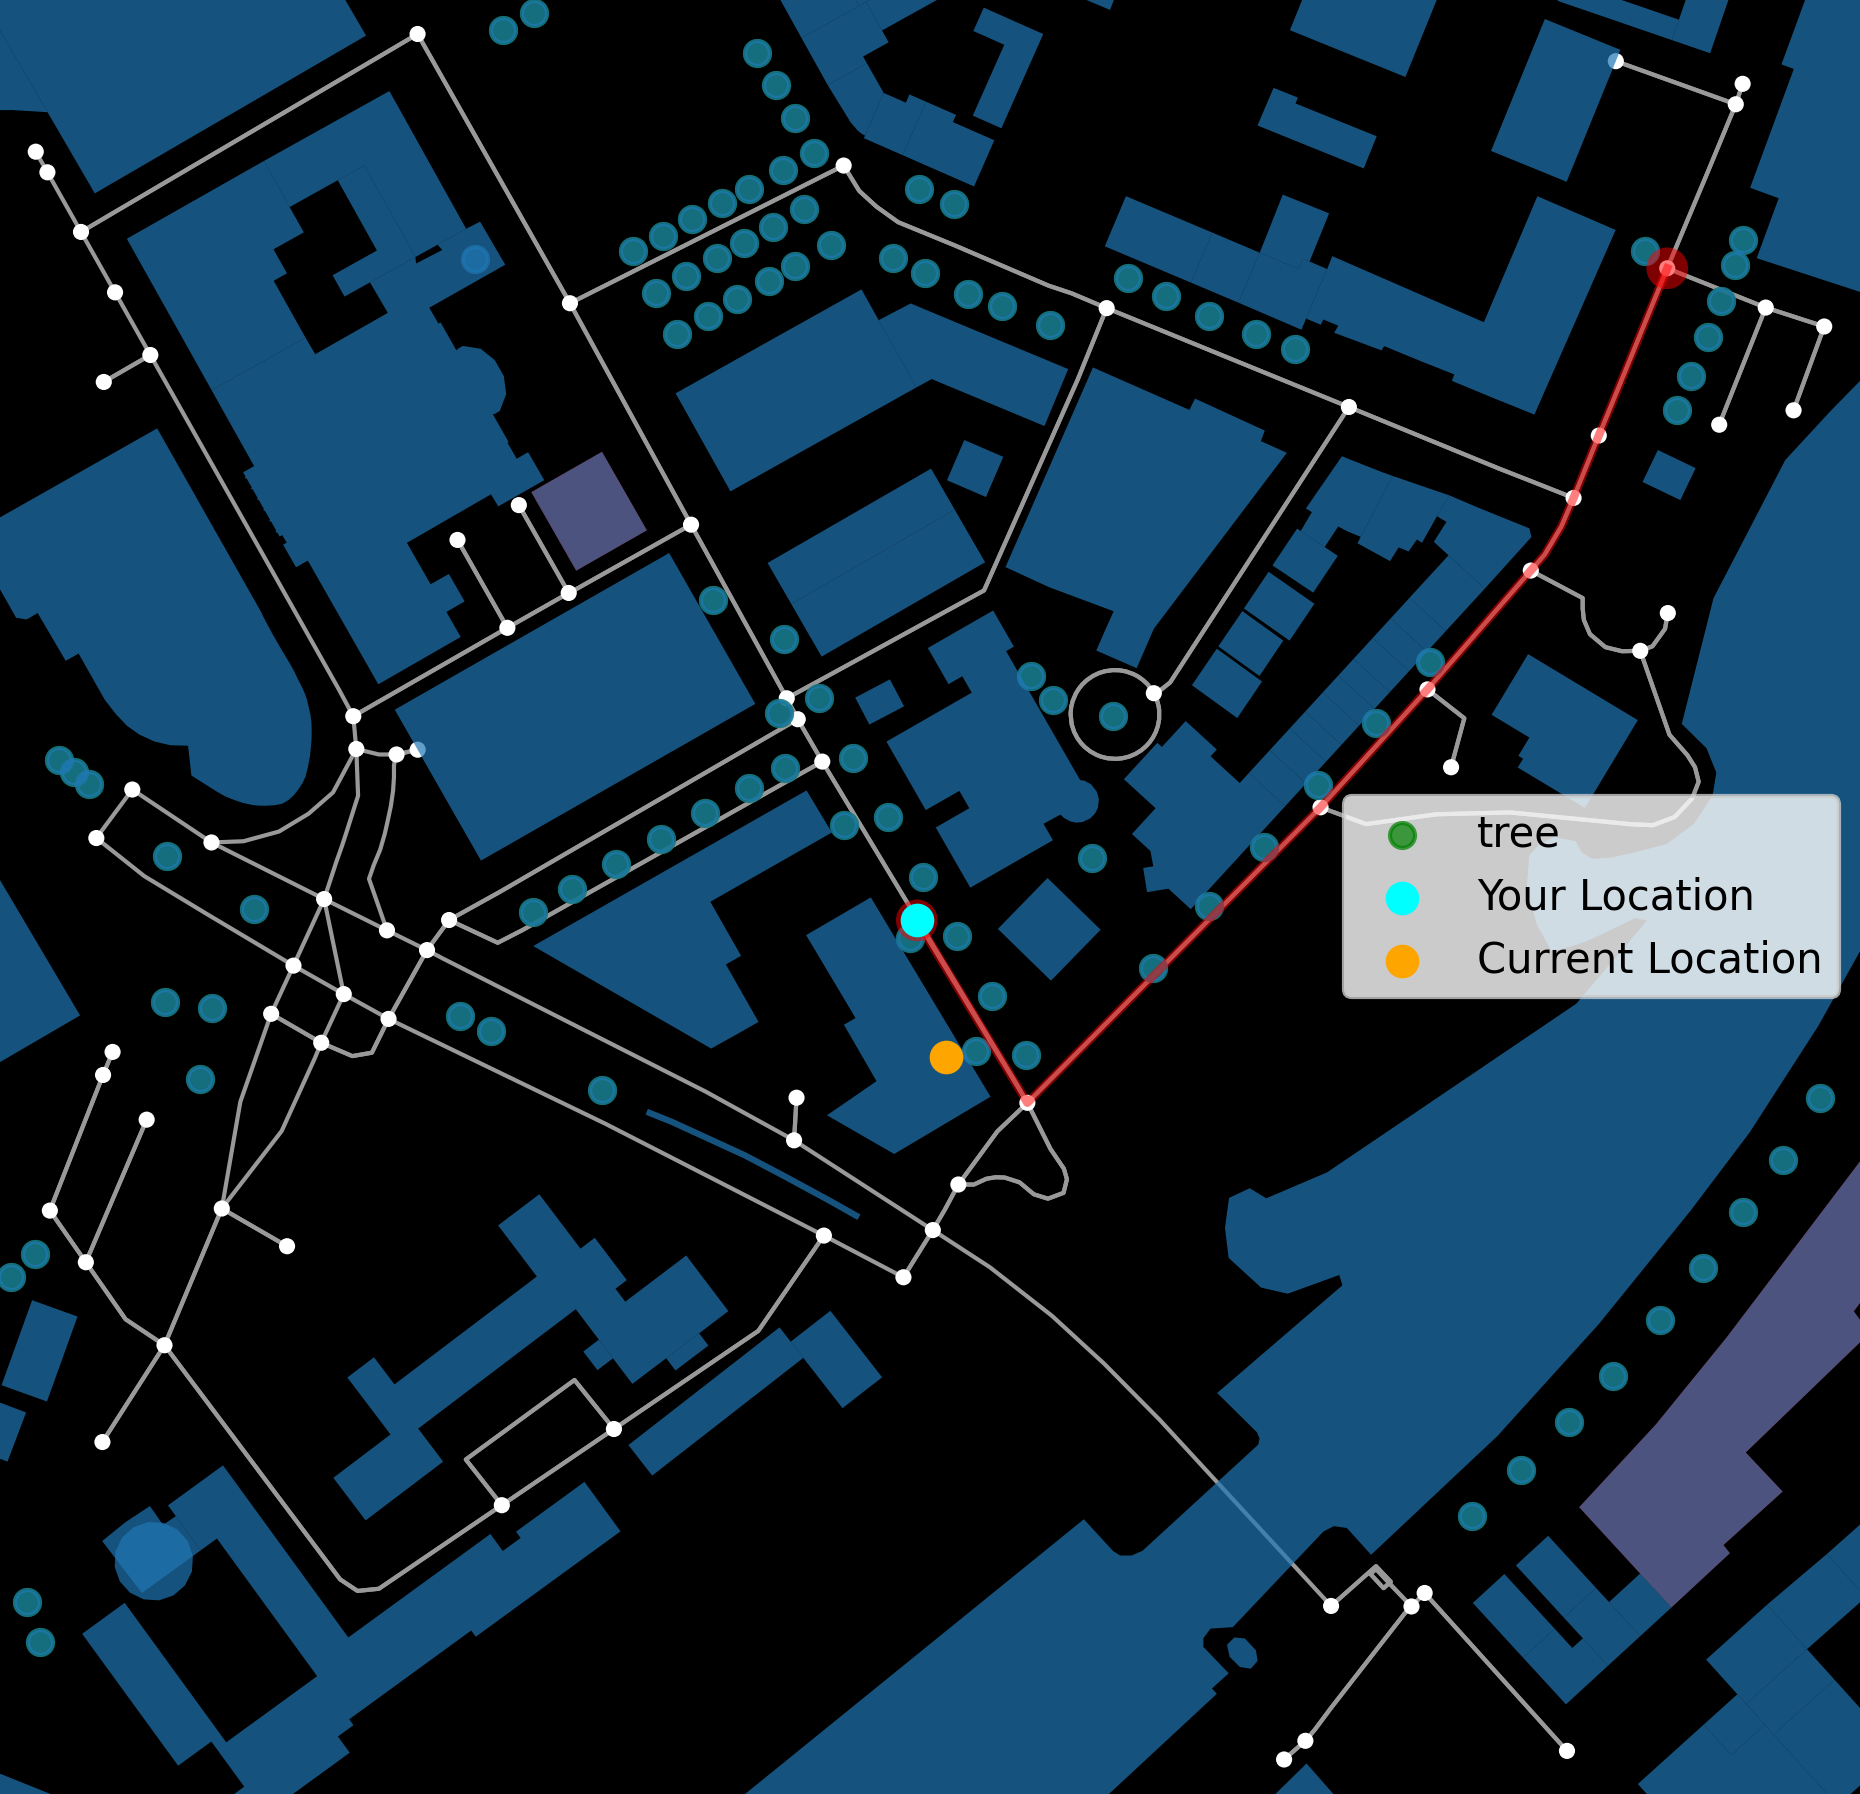
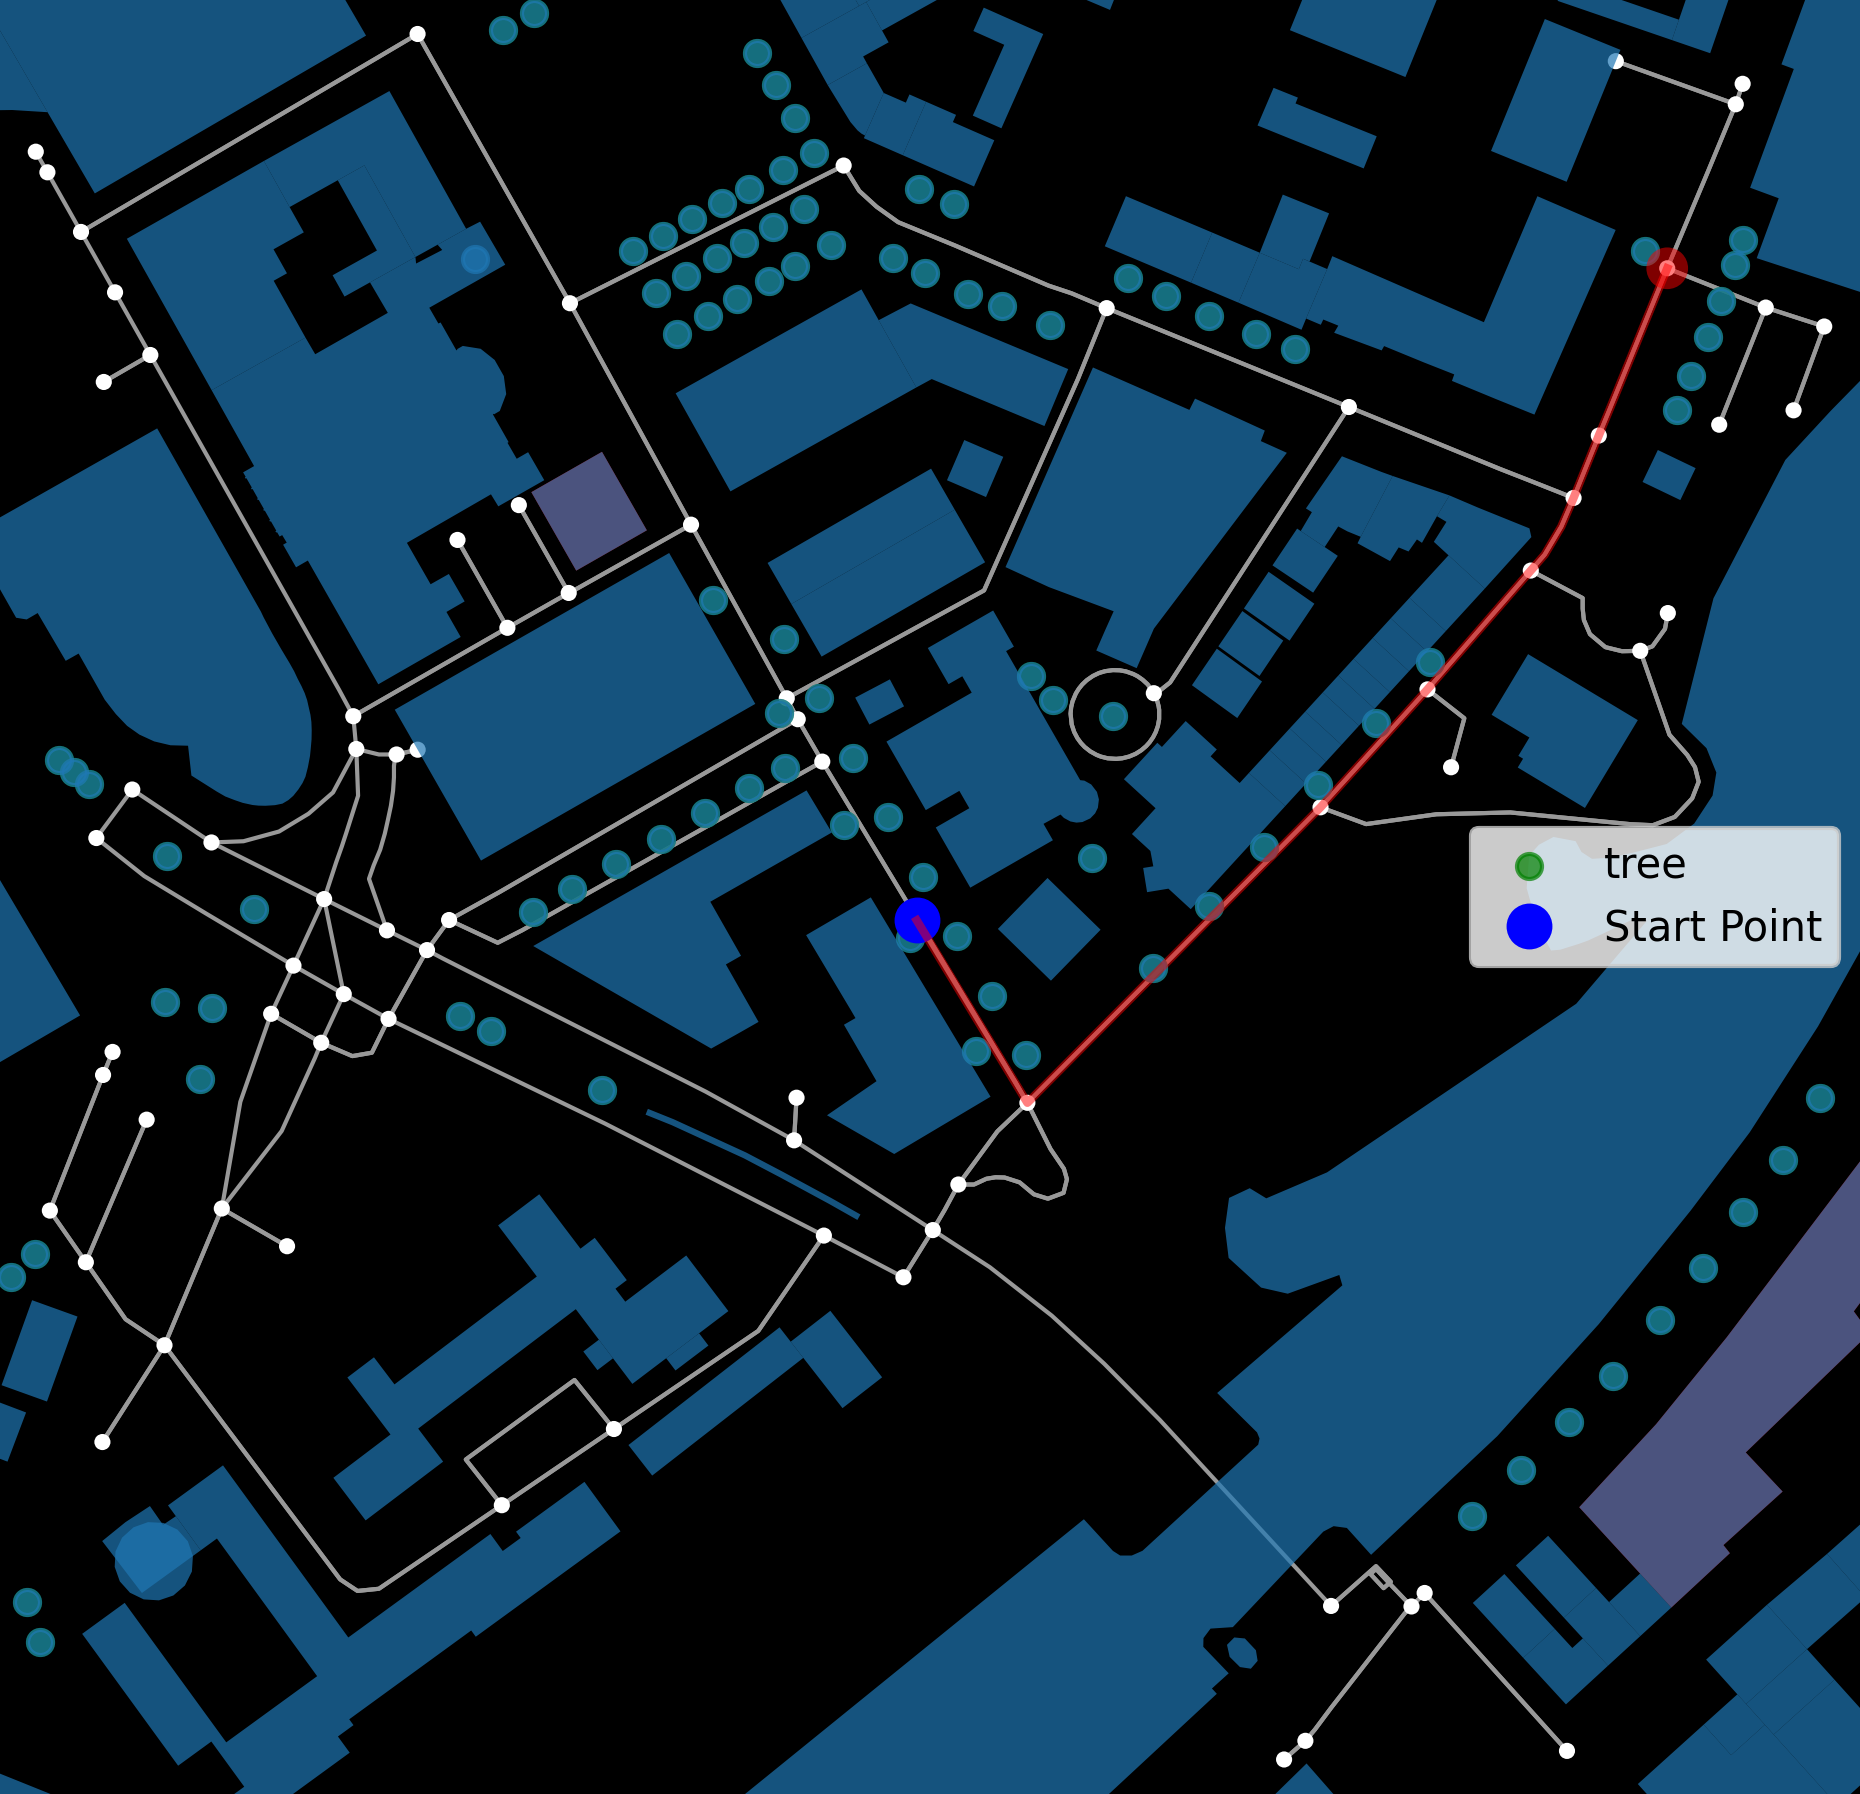
gif plot

Changed region(s): [[0.7172, 0.437, 0.9978, 0.5619], [0.4677, 0.4994, 0.5301, 0.5307], [0.4989, 0.5619, 0.5301, 0.5931]]

diff --git a/Layers/L1_App/navigation/create_map_network.py b/Layers/L1_App/navigation/create_map_network.py
@@ -4,13 +4,14 @@ from numpy import save, short
 import osmnx as ox
 import networkx as nx
 import os, sys, argparse
-import json
+import json, matplotlib
 import matplotlib.pyplot as plt
+matplotlib.use('Qt5Agg')
 from scipy.__config__ import show
 from matplotlib.patches import Patch
-from sklearn import tree
-import geopandas as gpd
-from shapely.geometry import Point, LineString
+from matplotlib.animation import FuncAnimation
+from matplotlib.path import Path
+from IPython.display import HTML
 
 class MapHandler():
     def __init__(self, type, destination, place_name=None, coordinates=[]) -> None:
@@ -27,6 +28,7 @@ class MapHandler():
         """
         self._network_type = type
         self._destination = destination
+        self._animation = None
         self.nodes = 0
         self.coordinates = []
         self.initial_location = coordinates
@@ -220,7 +222,7 @@ class MapHandler():
             self.coordinates.append(g.nodes[node_id[x]]['x'])
         return self.coordinates
     
-    def plot_graph_shortest_route(self, current_position):
+    def plot_graph_shortest_route(self):
         
         """
 
@@ -244,27 +246,45 @@ class MapHandler():
         
         # Highlight your location node
         your_location_node = self._graph.nodes[69]
-        ax.scatter(your_location_node["x"], your_location_node["y"], c="cyan", s=50, zorder=5, label="Your Location")
-        ax.scatter(y=current_position[0], x=current_position[1], c="orange", s=50, zorder=5, label="Current Location")
+        start_point, = ax.plot(your_location_node['x'], your_location_node['y'], 'bo', markersize=10, label='Start Point')
+        #ax.scatter(your_location_node["x"], your_location_node["y"], c="cyan", s=50, zorder=5, label="Your Location")
+        #ax.scatter(y=current_position[0], x=current_position[1], c="orange", s=50, zorder=5, label="Current Location")
         ax.legend()
         #ox.plot_graph_route(self._graph, self.find_shortest_path_between_two_points(), route_color='r', route_linewidth=2, ax=ax, save=True,filepath=f'{os.path.abspath(os.path.join(os.path.dirname(__file__),"../../"))}/L2_Data/map.png')
         shortest_path=self.find_shortest_path_between_two_points()
-        
+        print(len(shortest_path))
+        path_png = f'{os.path.abspath(os.path.join(os.path.dirname(__file__),"../../"))}/L2_Data/map.png'
         if shortest_path is not None:
-            ox.plot_graph_route(self._graph, shortest_path,
-                                 route_color='r', 
-                                 route_linewidth=2, 
-                                 ax=ax, 
-                                 save=True,
-                                 filepath=f'{os.path.abspath(
-                                     os.path.join(
-                                         os.path.dirname(__file__),"../../"))}/L2_Data/map.png')
-        
+            path_line = ox.plot_graph_route(self._graph, shortest_path,route_color='r',route_linewidth=2,ax=ax,save=True,filepath=path_png)
+        # Get the LineString geometry for the edge
+        #edge_linestring = ox.distance.get_route_edge_linestring(G, edge)
+
+        # Extract individual points from the LineString
+        #points = [(point.x, point.y) for point in edge_linestring.coords]
+
+        # Function to update animation frames
+        def update(frame):
+            if frame < len(shortest_path):
+                #print(f"Frame: {frame}")
+                current_node = shortest_path[frame]
+                x = self._graph.nodes[current_node]['x']
+                y = self._graph.nodes[current_node]['y']
+                # Update the position of the PathPatch
+                start_point.set_data(x, y)
+                return start_point,
+            else:
+                #print(f"Frame outside shortest_path: {frame}")
+                return start_point,
+
+        # Animate the movement along the path
+        self._animation = FuncAnimation(fig, update, frames=len(shortest_path), interval=500, repeat=True)
+        # Save the animation
+        path_gif = f'{os.path.abspath(os.path.join(os.path.dirname(__file__),"../../../"))}/path_animation.gif'
+        self._animation.save(path_gif, writer='Pillow')
         
         # Show the plot
         plt.show()
-        #plt.draw()
-        #plt.pause(3)
+
 
     def log(self):
         try:

diff --git a/my_location.py b/my_location.py
@@ -7,15 +7,15 @@ from Layers.L1_App.sensor.dgps.DGPS import connect_pksi_dgps
 from json.decoder import JSONDecodeError
 
 
-try:
+""" try:
     gps = connect_pksi_dgps()
     print(f'Getting Longitudenal and Latitude data: {gps.get_data()}')
     print(f'Logging Longitudenal and Latitude data: {gps.log()}')
 except KeyboardInterrupt:
-    pass 
+    pass """ 
 
 
-""" config_path = f'{os.path.abspath(os.path.dirname(__file__))}/Layers/L2_Data/gps_data.json'
+config_path = f'{os.path.abspath(os.path.dirname(__file__))}/Layers/L2_Data/gps_data.json'
 
 try:
     with open(config_path, "r") as config_file:
@@ -37,4 +37,3 @@ print(f'find shortest path between two points(): {map.find_shortest_path_between
 print(f'cartesian coordinates(): {map.cartesian_coordinates()}')
 print(f'logging coordinates(): {map.log()}')
 print(f'plot graph shortest route(): {map.plot_graph_shortest_route()}')
- """
